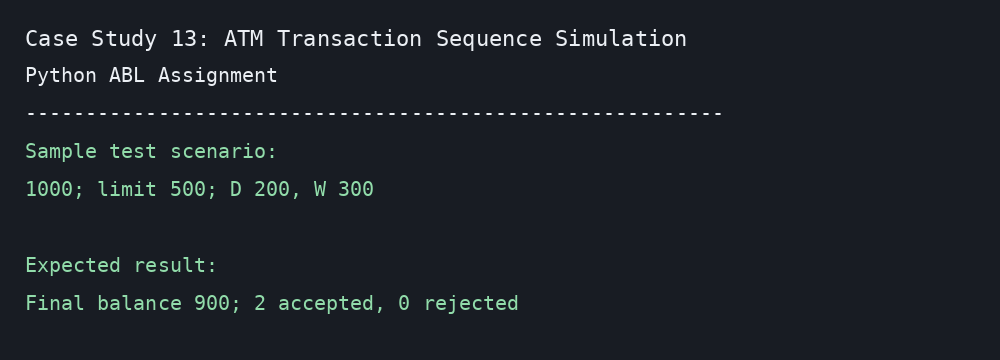
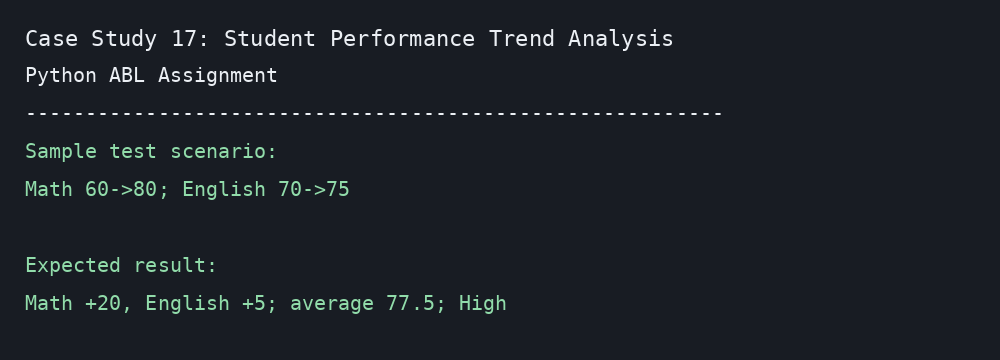
Add files via upload

Changed region(s): [[0.186, 0.0611, 0.682, 0.1528], [0.0, 0.825, 0.527, 0.8861], [0.0, 0.4889, 0.372, 0.55]]

diff --git a/program.py b/program.py
@@ -1,35 +1,30 @@
 def main():
-    balance = float(input("Opening balance: "))
-    limit = float(input("Maximum withdrawal per transaction: "))
-    n = int(input("Number of transactions: "))
-    accepted = rejected = 0
-    history = []
+    n = int(input("Number of subjects: "))
+    records = []
+    latest_scores = []
 
     for i in range(n):
-        kind, amount_text = input(f"Transaction {i + 1} (D/W amount): ").split()
-        amount = float(amount_text)
-        kind = kind.upper()
-        if amount <= 0:
-            result = "REJECTED: amount must be positive"
-            rejected += 1
-        elif kind == "D":
-            balance += amount
-            result = "ACCEPTED: deposit"
-            accepted += 1
-        elif kind == "W" and amount <= limit and amount <= balance:
-            balance -= amount
-            result = "ACCEPTED: withdrawal"
-            accepted += 1
-        else:
-            result = "REJECTED: invalid type, limit, or insufficient balance"
-            rejected += 1
-        history.append((kind, amount, result, balance))
+        name = input(f"Subject {i + 1} name: ")
+        previous = float(input("Previous exam score (0-100): "))
+        latest = float(input("Latest exam score (0-100): "))
+        if not (0 <= previous <= 100 and 0 <= latest <= 100):
+            print("Scores must be between 0 and 100.")
+            return
+        records.append((name, previous, latest))
+        latest_scores.append(latest)
 
-    print("\nTRANSACTION SUMMARY")
-    for i, (kind, amount, result, current) in enumerate(history, 1):
-        print(f"{i}. {kind} {amount:.2f} - {result}; balance={current:.2f}")
-    print(f"Final balance: {balance:.2f}")
-    print(f"Accepted: {accepted} | Rejected: {rejected}")
+    print("\nPERFORMANCE TREND")
+    for name, previous, latest in records:
+        change = latest - previous
+        label = "Improved" if change > 0 else "Declined" if change < 0 else "Unchanged"
+        print(f"{name}: {previous:.1f} -> {latest:.1f} ({change:+.1f}, {label})")
+
+    average = sum(latest_scores) / n if n else 0
+    weakest = records[latest_scores.index(min(latest_scores))][0] if n else "N/A"
+    category = "High" if average >= 75 else "Moderate" if average >= 50 else "Needs Improvement"
+    print(f"Latest average: {average:.2f}")
+    print(f"Weakest subject: {weakest}")
+    print(f"Classification: {category}")
 
 if __name__ == "__main__":
     main()

diff --git a/documentation.md b/documentation.md
@@ -1,24 +1,24 @@
-# Case Study 13: ATM Transaction Sequence Simulation
+# Case Study 17: Student Performance Trend Analysis
 
 ## 1. Problem Statement
-Process a sequence of deposits and withdrawals, maintain a simulated balance, enforce a per-withdrawal limit, reject invalid transactions, and produce a transaction summary.
+Compare scores across multiple examinations, calculate improvements or declines, identify weak subjects, and classify performance using supplied thresholds.
 
 ## 2. Objectives
-- Maintain a running account balance.
-- Validate transaction amounts and withdrawal limits.
-- Summarize accepted and rejected transactions.
+- Calculate score changes between exams.
+- Find the lowest-scoring subject.
+- Assign a performance category using defined rules.
 
 ## 3. Assumptions
-- Opening balance is non-negative.
-- Transactions are entered as D amount or W amount.
-- A withdrawal cannot exceed the current balance or the per-transaction limit.
+- Each subject has a score from 0 to 100 for both examinations.
+- A score change is latest score minus previous score.
+- Average >= 75 is High, >= 50 is Moderate, otherwise Needs Improvement.
 
 ## 4. Algorithm
-1. Read opening balance and withdrawal limit.
-2. Process each transaction in order.
-3. Accept a deposit if its amount is positive.
-4. Accept a withdrawal only if its amount is positive, within the limit, and no greater than the balance.
-5. Record each result and print the final summary.
+1. Read subject names and two scores for each subject.
+2. Validate scores from 0 to 100.
+3. Calculate change and average latest score.
+4. Identify the subject with the lowest latest score.
+5. Classify the average and display the report.
 
 ## 5. Flowchart
 ```mermaid
@@ -32,15 +32,16 @@ flowchart TD
 
 ## 6. Pseudocode
 ```text
-INPUT balance, limit, n
-accepted = 0; rejected = 0
-REPEAT n times:
-    INPUT type, amount
-    IF amount <= 0: reject
-    ELSE IF type is D: balance = balance + amount; accept
-    ELSE IF type is W AND amount <= limit AND amount <= balance: balance = balance - amount; accept
-    ELSE: reject
-PRINT balance, accepted, rejected
+INPUT subject count
+FOR each subject: INPUT name, previous, latest
+    change = latest - previous
+    store latest score
+average = sum(latest scores) / count
+weakest = subject with minimum latest score
+IF average >= 75: category = High
+ELSE IF average >= 50: category = Moderate
+ELSE: category = Needs Improvement
+PRINT each change, average, weakest, category
 ```
 
 ## 7. Python Source Code
@@ -49,12 +50,12 @@ See [`program.py`](program.py).
 ## 8. Test Cases
 | Test input / condition | Expected result |
 |---|---|
-| 1000; limit 500; D 200, W 300 | Final balance 900; 2 accepted, 0 rejected |
-| 100; limit 80; W 120 | Final balance 100; 0 accepted, 1 rejected |
-| 500; limit 200; W 100, W 450 | Final balance 400; 1 accepted, 1 rejected |
+| Math 60->80; English 70->75 | Math +20, English +5; average 77.5; High |
+| Math 40->45; English 50->45 | average 45; Needs Improvement |
+| Math 65->65 | change 0; Unchanged |
 
 ## 9. Sample Output
 The `output_screenshot.png` file in this folder is a sample terminal-style output illustration. Run `program.py` with the test input to verify the actual output on your system.
 
 ## 10. Conclusion
-The program simulates ATM transactions using a running balance and validates each transaction before updating the account.
+The analysis reports subject-wise trends and gives a simple overall classification from the latest scores.
